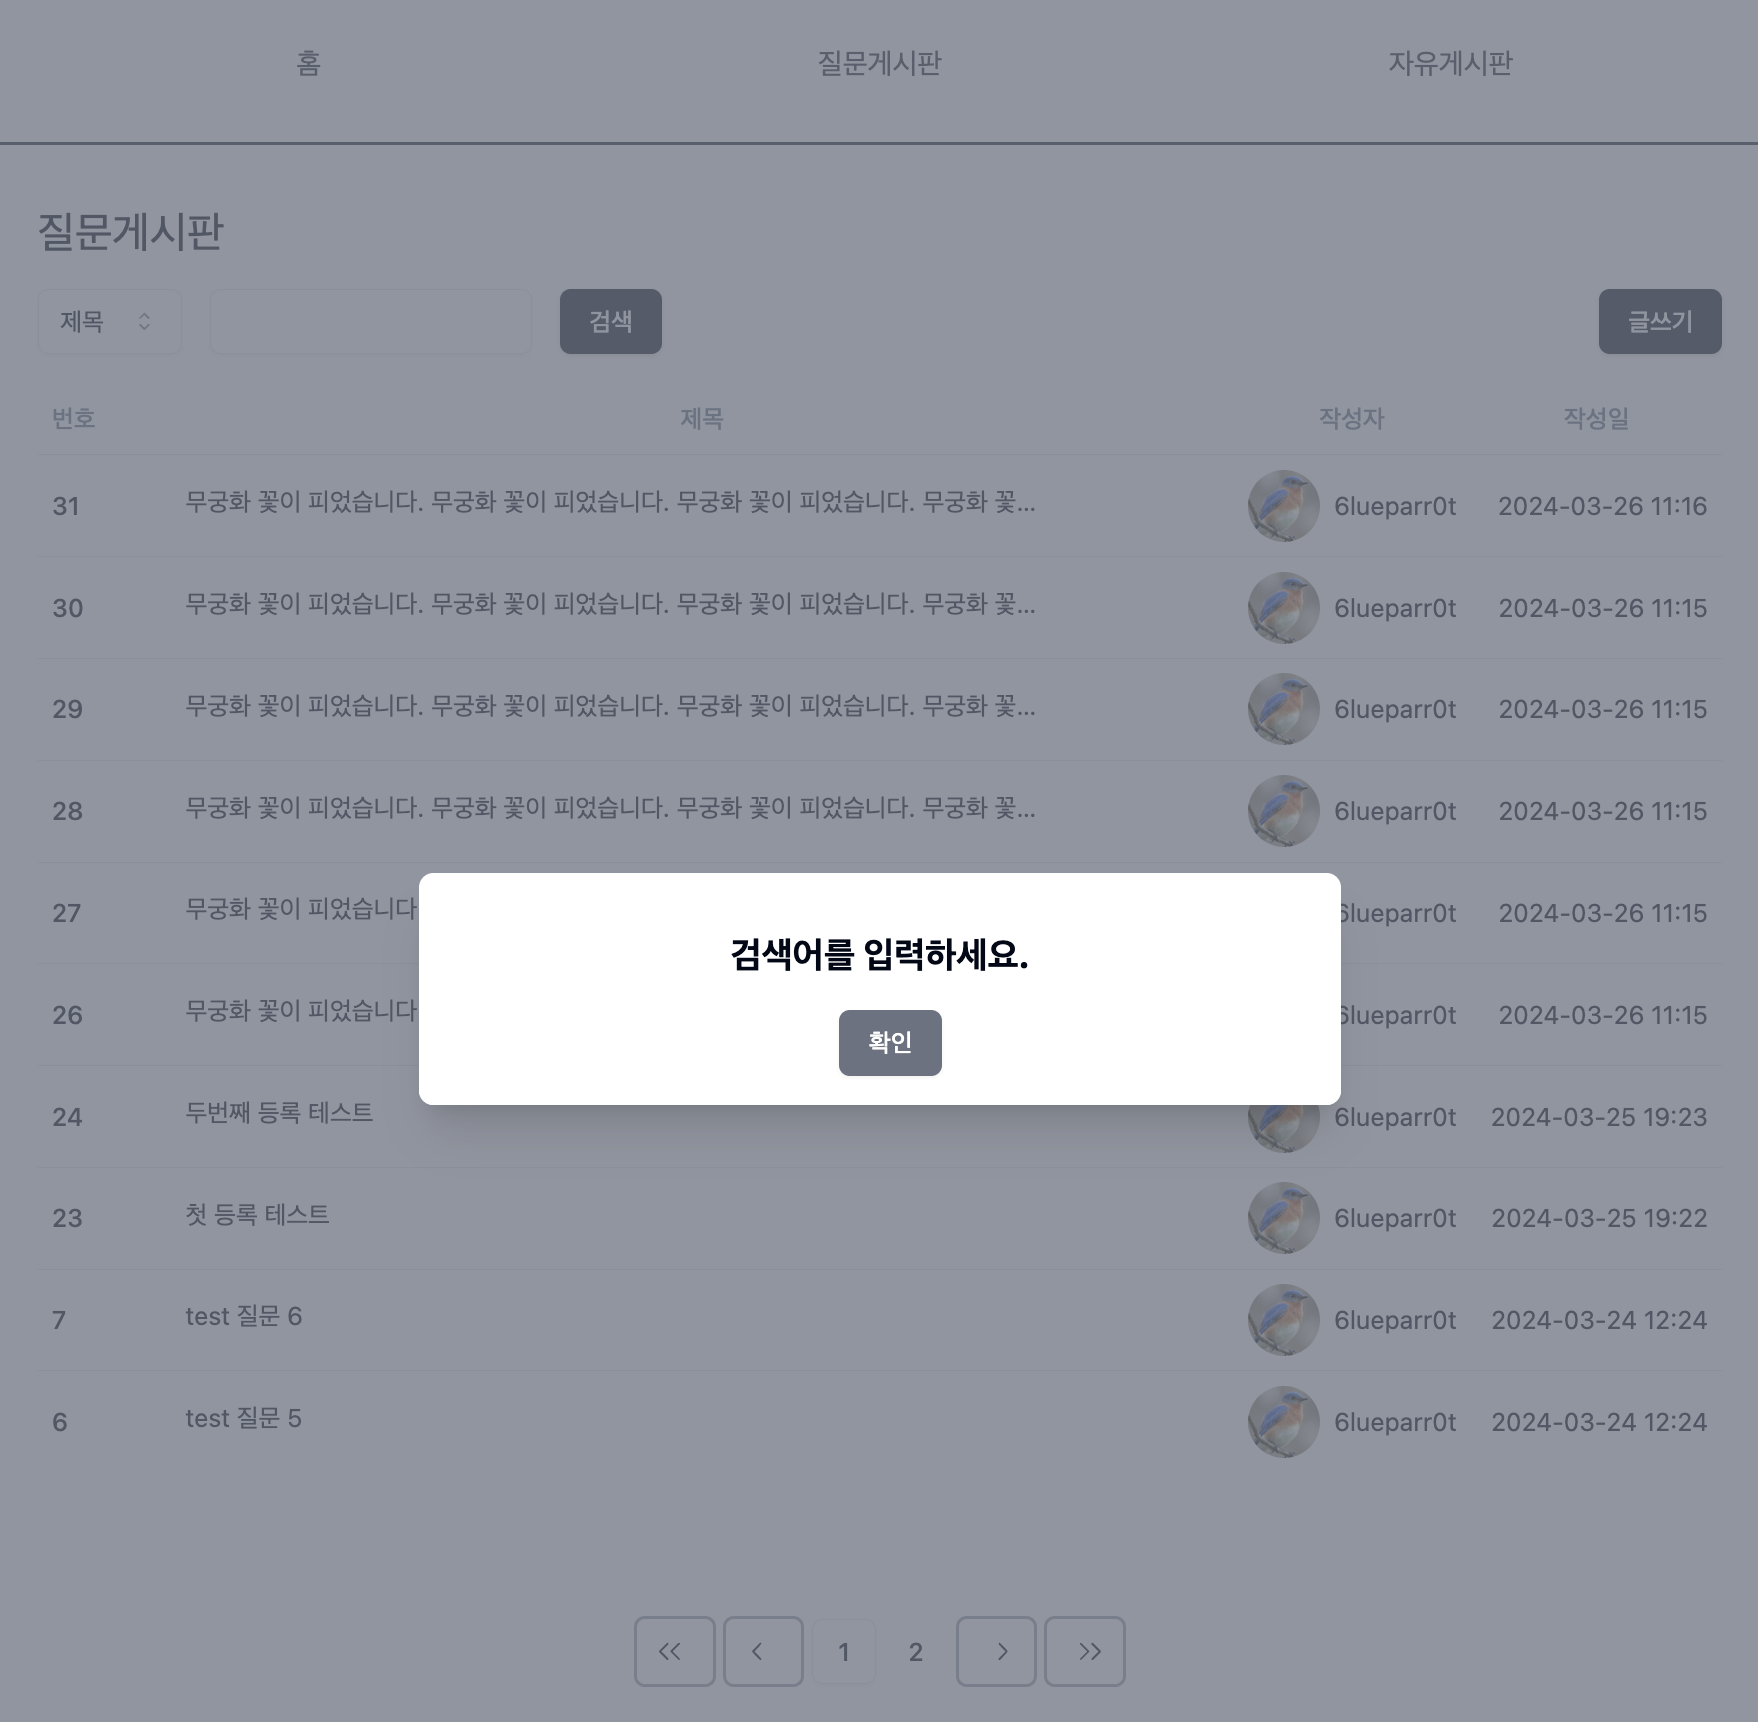
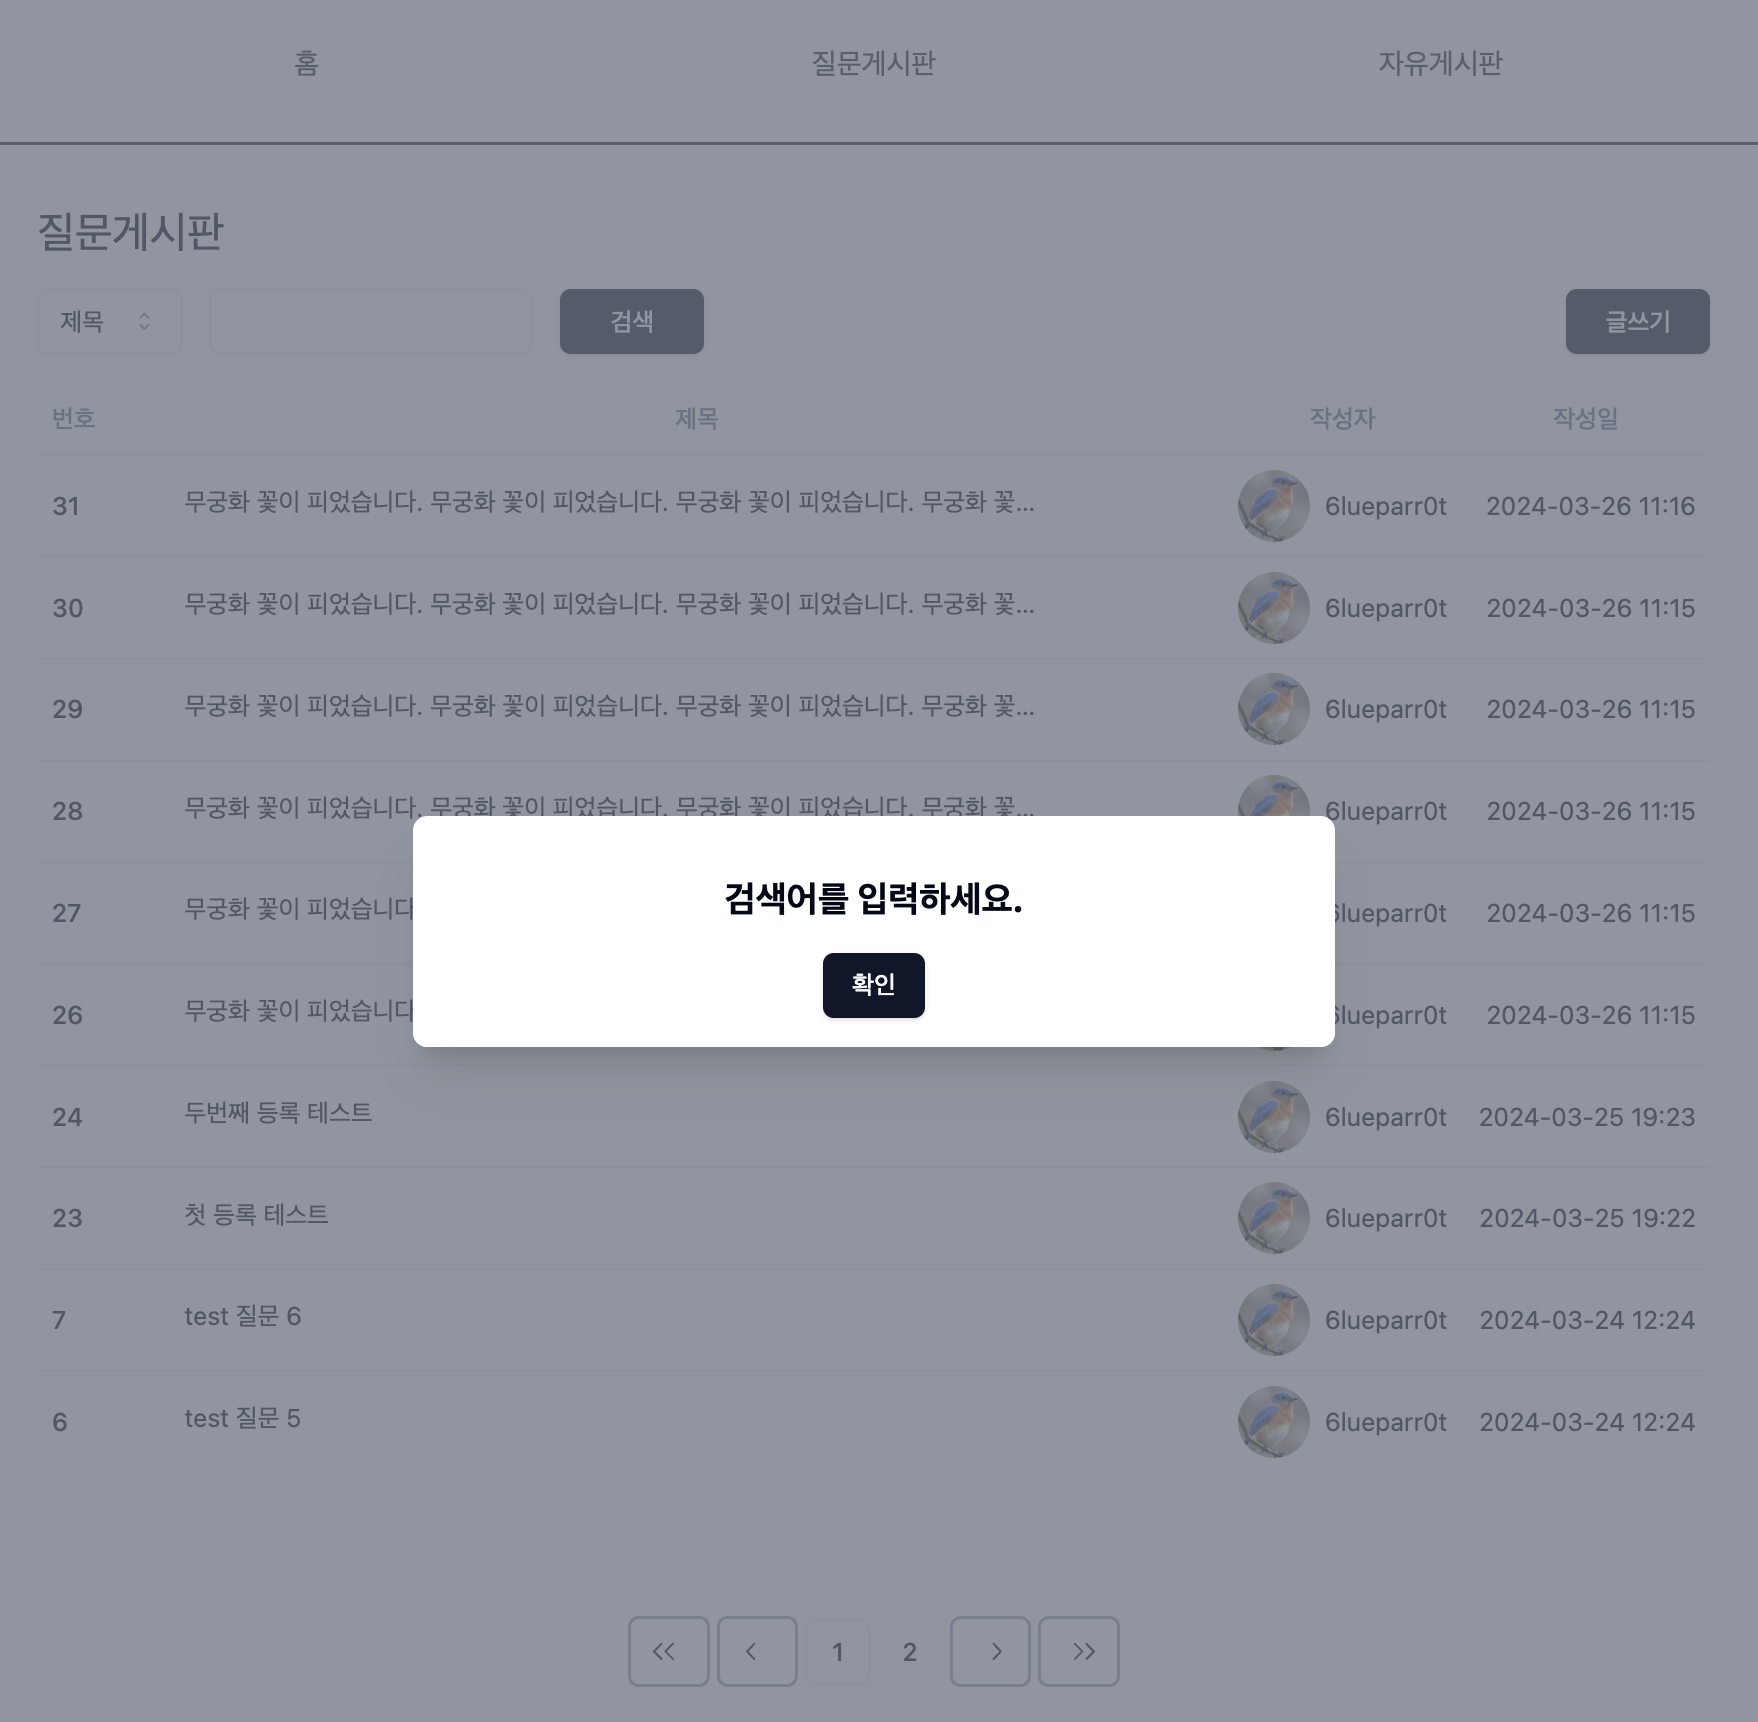
final : day 4 - type 수정

diff --git a/src/components/Home/LatestIssuse.tsx b/src/components/Home/LatestIssuse.tsx
@@ -28,13 +28,11 @@ export const LatestIssuse: React.FC<BoardProps> = ({ category, list, title }) =>
       </h6>
       <Card className="shadow-none m-1">
         <CardContent className="h-40 p-6 flex flex-col justify-self-center overflow-auto">
-          {list.length <= 0 ? (
-            <div className="m-auto">등록된 게시글이 없습니다.</div>
-          ) : (
-            list.map((issue: Issue, index: number) => {
+          {list && list.length > 0 ? (
+            list?.map((issue: Issue, index: number) => {
               return (
                 <div key={index} className="grid grid-cols-2 gap-2">
-                  <div className="truncate md:w-52 xl:w-[550px]">
+                  <div className="truncate md:w-52 xl:w-[470px]">
                     <Link to={`/${category}/${issue.number}`}>
                       {issue.title}
                     </Link>
@@ -43,6 +41,8 @@ export const LatestIssuse: React.FC<BoardProps> = ({ category, list, title }) =>
                 </div>
               );
             })
+          ) : (
+            <div className="m-auto">등록된 게시글이 없습니다.</div>
           )}
         </CardContent>
       </Card>

diff --git a/src/components/_common/Modal.tsx b/src/components/_common/Modal.tsx
@@ -2,6 +2,8 @@ import React, { useEffect, useRef } from "react";
 import modalStore from "@/store/modal";
 import { Modal } from "@/components/components.d";
 
+import { Button } from "@/components/ui/button";
+
 interface ModalProps extends React.PropsWithChildren {
   modal: Modal;
   index: number;
@@ -55,12 +57,9 @@ const Modal: React.FC<ModalProps> = ({ modal, index }) => {
             </div>
             <div className="bg-white py-4 justify-around px-6 flex">
               {modal.type === "alert" && (
-                <button
-                  onClick={closeModal}
-                  className="w-full inline-flex rounded-md border border-transparent shadow-sm px-4 py-2 bg-gray-500 text-base font-medium text-white hover:bg-gray-700 focus:outline-none focus:ring-2 focus:ring-offset-2 focus:ring-gray-500 ml-3 w-auto text-sm"
-                >
+                <Button onClick={closeModal}>
                   확인
-                </button>
+                </Button>
               )}
               {modal.type === "confirm" && modal.optionComponent}
             </div>

diff --git a/src/components/Board/Common/IssueEditor.tsx b/src/components/Board/Common/IssueEditor.tsx
@@ -45,7 +45,7 @@ export const IssueEditor: React.FC<BoardProps> = ({ category, method, issue }) =
   );
 
   const confirmComponent = (
-    <div>
+    <div className="w-full">
       <div className="text-center mb-4 leading-6">
         이 페이지를 벗어나면
         <br />

diff --git a/src/components/components.d.ts b/src/components/components.d.ts
@@ -16,7 +16,7 @@ export type BoardProps = {
   category: string;
   method?: "POST" | "PATCH" | "DELETE";
   issue?: Issue;
-  list?: ListRow[];
+  list?: Issue[] | undefined;
   title?: string;
 };
 

diff --git a/README.md b/README.md
@@ -66,28 +66,47 @@ pnpm install
 pnpm run dev
 ```
 
-### 4. 브라우저에서 <http://localhost:5173> 접속
+### 4. <http://localhost:5173> 접속
 
- 환경에 따라 포트가 변경될 수 있음
+> 환경에 따라 포트가 변경될 수 있음
 
-## 작업 화면
+## Sample Page
 
-### 홈 화면
+### 홈
 
 ![01_home](./images/01_home.png)
 
-### 게시판 화면
+### 게시판 목록 및 empty 케이스
 
 ![02_board](./images/02_board.png)
 ![03_board_empty](./images/03_board_empty.png)
+
+### 게시판 목록 - 검색
+
 ![04_search](./images/04_search.png)
 ![05_search2](./images/05_search2.png)
 
-### 뷰어 화면
+### 게시판 목록 - 검색 결과
 
 ![06_search3](./images/06_search3.png)
+
+### 게시판 상세
+
 ![07_view](./images/07_view.png)
 ![08_delete](./images/08_delete.png)
-![09_edit](./images/09_edit.png)
+
+### 글쓰기
+
 ![10_new1](./images/10_new1.png)
+
+### 글쓰기 - 오류케이스
+
 ![11_new2](./images/11_new2.png)
+
+### 글쓰기 - 페이지 이탈 방지 1
+
+![09_edit](./images/09_edit.png)
+
+### 글쓰기 - 페이지 이탈 방지 2
+
+![13_new3](./images/12_new3.png)
